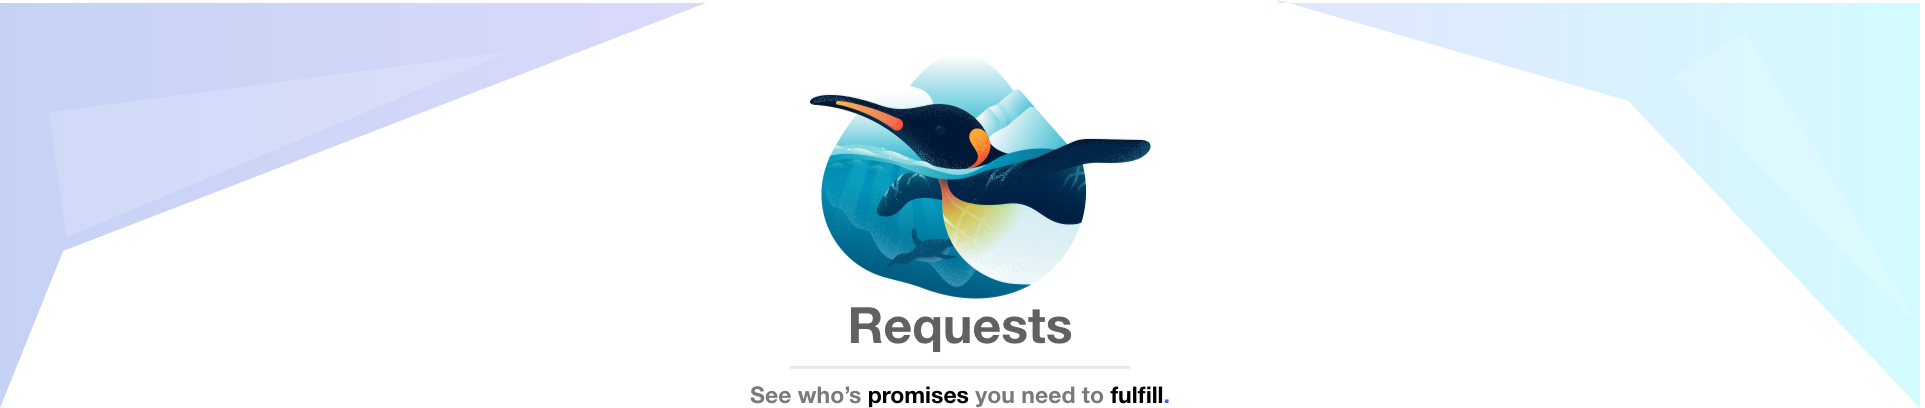
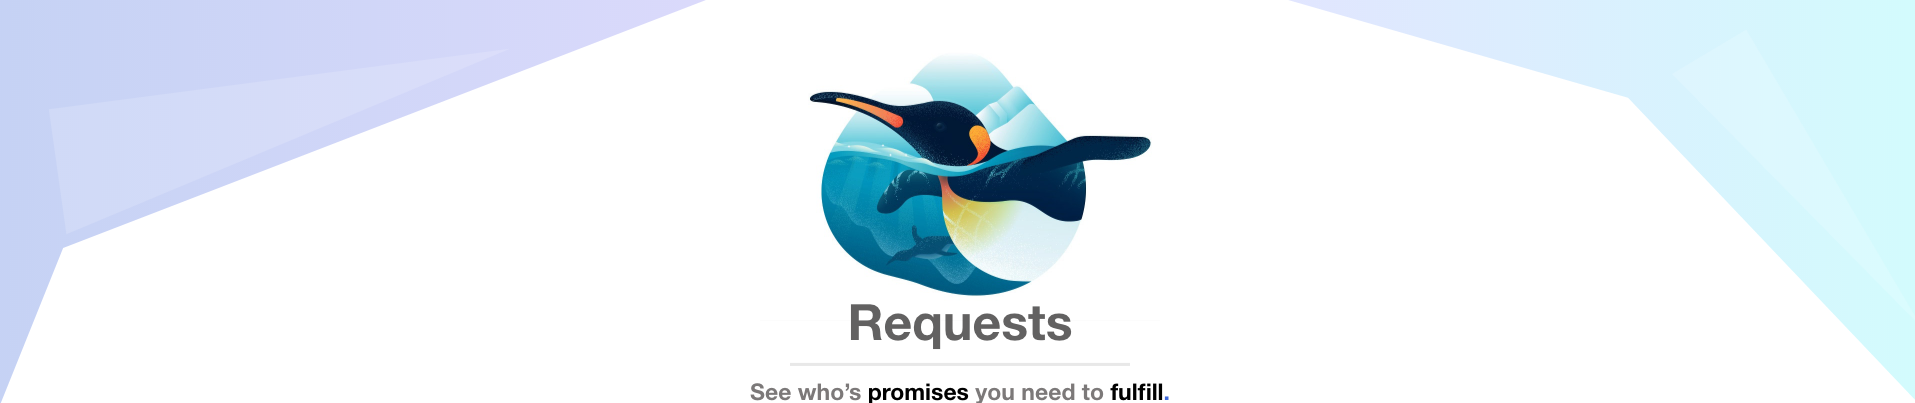
requests stuff

diff --git a/client/src/components/styles/Requests.css b/client/src/components/styles/Requests.css
@@ -2,11 +2,19 @@
     display: flex;
     justify-content: center;
     align-items: center;
+    flex-wrap: wrap;
+    width: 90%;
+}
+
+.medallionPageWrapper {
+    display: flex;
+    flex-direction: column;
+    align-items: center;
 }
 
 .banner {
     width: 100%;
-    margin-top: 4rem;
+    margin-top: 0rem;
 }
 
 .banner img {
@@ -14,9 +22,47 @@
 }
 
 .medallion {
+    position: relative;
     margin: 3rem;
-    box-shadow: 0 1rem 1rem rgba(0, 0, 0, .15);
     border-radius: 1rem;
+    background-color: transparent;
+    perspective: 1000px;
+    width: 40%;
+    height: 22rem;
+}
+
+.medallion_inner {
+    position: relative;
+    border-radius: 1rem;
+    box-shadow: 0 1rem 1rem rgba(0, 0, 0, .15);
+    width: 100%;
+    height: 100%;
+    text-align: center;
+    transition: transform 0.8s;
+    transform-style: preserve-3d;
+}
+
+.medallion:hover .medallion_inner {
+    transform: rotateY(180deg);
+}
+
+.front,
+.back {
+    position: absolute;
+    width: 100%;
+    height: 100%;
+    -webkit-backface-visibility: hidden;
+    backface-visibility: hidden;
+}
+
+.front {
+    background-color: white;
+}
+
+.back {
+    background-color: white;
+    color: white;
+    transform: rotateY(180deg);
 }
 
 .flexWrapper {
@@ -41,8 +87,10 @@
     width: 15rem;
     height: 15rem;
     text-align: center;
-    position: relative;
-    margin: 0rem 2rem;
+    /* position: relative;
+    margin: 0rem 2rem; */
+    background-image: url("pfp_1.png");
+    background-size: cover;
 }
 
 .medallion__name {
@@ -51,4 +99,43 @@
     width: 15rem;
     top: 15rem;
     left: 0rem;
+}
+
+.medallionContent {
+    font-size: 1.75rem;
+    text-align: center;
+}
+
+.pendingError {
+    margin-top: 5rem;
+    font-size: 4rem;
+    box-shadow: 0 1rem 1rem rgba(0, 0, 0, .1);
+    border-radius: 15px;
+    padding: 1rem;
+    color: gray;
+    width: 45rem;
+    text-align: center;
+}
+
+.complete {
+    font-size: 2.5rem;
+    position: absolute;
+    top: 50%;
+    left: 50%;
+    transform: translate(-50%, -50%);
+    background-color: green;
+    border: none;
+    box-shadow: 0 .5rem .5rem rgba(0, 0, 0, .1);
+    padding: 1rem;
+    border-radius: 1.5rem;
+}
+
+.complete:hover {
+    box-shadow: 0 .5rem .5rem rgba(0, 0, 0, .2);
+    transform: translate(-50%, -51%);
+}
+
+.complete:active {
+    box-shadow: 0 .25rem .25rem rgba(0, 0, 0, .05);
+    transform: translate(-50%, -49%);
 }

diff --git a/routes/medallion.js b/routes/medallion.js
@@ -104,11 +104,11 @@ router.get('/requests', async(req, res, next) => {
             const medallions = await Promise.all(user.pendingMedallions.map(async(medallion_id) => {
                 const medal = await Medallion.findById(medallion_id)
                 console.log(medal);
-                return {...medal, "name": user.name };
+                return medal;
             }))
             res.json(medallions);
         } catch (err) {
-            console.error(err.message);
+            console.error(err);
             res.status(500).send("Server Error");
         }
     })
@@ -122,7 +122,7 @@ router.get('/pending', async(req, res, next) => {
             const medallions = await Promise.all(user.sentPendingMedallions.map(async(medallion_id) => {
                 const medal = await Medallion.findById(medallion_id)
                 console.log(medal);
-                return {...medal, "name": user.name };
+                return medal;
             }))
             res.json(medallions);
         } catch (err) {
@@ -160,7 +160,7 @@ router.get('/completed', async(req, res, next) => {
             const medallions = await Promise.all(user.completedMedallions.map(async(medallion_id) => {
                 const medal = await Medallion.findById(medallion_id)
                 console.log(medal);
-                return {...medal, "name": user.name };
+                return medal;
             }))
             res.json(medallions);
         } catch (err) {
@@ -178,7 +178,7 @@ router.get('/sent', async(req, res, next) => {
             const medallions = await Promise.all(user.sentMedallions.map(async(medallion_id) => {
                 const medal = await Medallion.findById(medallion_id)
                 console.log(medal);
-                return {...medal, "name": user.name };
+                return medal;
             }))
             console.log(medallions)
             res.json(medallions);
@@ -197,7 +197,7 @@ router.get('/sent/completed', async(req, res, next) => {
         const medallions = await Promise.all(user.completedSentMedallions.map(async(medallion_id) => {
             const medal = await Medallion.findById(medallion_id)
             console.log(medal);
-            return {...medal, "name": user.name };
+            return medal;
         }))
         res.json(medallions);
     } catch (err) {

diff --git a/client/src/components/AcceptRequests.jsx b/client/src/components/AcceptRequests.jsx
@@ -3,11 +3,11 @@ import PropTypes from "prop-types";
 import "./styles/Requests.css";
 import axios from "axios";
 
-const Requests = (props) => {
+const AcceptRequests = (props) => {
   useEffect(() => {
     async function wrapperFunc() {
       console.log("GETTING MEDALLIONS");
-      const res = await axios.get("/api/medallion");
+      const res = await axios.get("/api/medallion/requests");
       console.log(res.data);
       setReqArr(res.data);
     }
@@ -15,9 +15,18 @@ const Requests = (props) => {
   }, []);
   const [reqArr, setReqArr] = React.useState([]);
 
-  async function completeMedallion(e) {
-    axios.put(`/api/medallion/complete/${e.target.name}`)
-  }
+  // function initializeArray(data){
+  //     let tempArr = [];
+  //     for(let i = 0; i < data.length; i++){
+  //         tempArr.push(new req(data[i].img, data[i].name,data[i].date, img));
+  //     }
+  //     setReqArr(function(prev){
+  //         return [tempArr];
+  //     });
+  // }
+  // useEffect(() =>{
+  //     axios.get('/getdata').then();
+  // })
   return (
     <div className="medallionPageWrapper">
       <div className="banner">
@@ -53,7 +62,7 @@ const Requests = (props) => {
                     <h1>{e.medal}</h1>
                   </div>
                   <div className="back">
-                    <button className="complete" onClick = {e => completeMedallion(e)} name={e._id}>Complete</button>
+                    <button className="complete">Complete</button>
                   </div>
                 </div>
               </div>
@@ -78,5 +87,5 @@ function req(image, name, date, medal) {
   this.medal = medal;
 }
 
-Requests.propTypes = {};
-export default Requests;
+AcceptRequests.propTypes = {};
+export default AcceptRequests;

diff --git a/client/src/components/navbar/Navbar.jsx b/client/src/components/navbar/Navbar.jsx
@@ -20,13 +20,16 @@ const Navbar = props => {
         <div className="navWrapper">
             <img class="logo" src="../../images/logo.png" alt="logo" /> 
             <nav>
-                <ul class="nav_links">
-                    <li><a href="#">Requests</a></li>
-                    <li><a href="#">Users</a></li>
-                    <li><a href="#">Friends</a></li>
-                    <li><a href="#">Login</a></li>
-                    <li><a href="#">Sign up</a></li>
-                </ul>
+                {user ? <ul class="nav_links">
+                    <li><Link to="/requests">Medallions</Link></li>
+                    <li><Link to="/">Make Promises</Link></li>
+                    <li><Link to="/request_accept">Accept Promises</Link></li>
+                    <li><Link to="/friends">Friends</Link></li>
+                </ul> : <ul class="nav_links">
+                    <li><Link to="/">Home</Link></li>
+                    <li><Link to="/login">Login</Link></li>
+                    <li><Link to="/register">Sign up</Link></li>
+                </ul>}
             </nav>
             <img class="navBanner" src="../../../images/banner-item.png"alt="banner" />
         </div>

diff --git a/client/src/components/styles/Home.css b/client/src/components/styles/Home.css
@@ -1,27 +1,37 @@
-.home-div{
-    color:white;
+.home-div {
+    color: white;
     flex-direction: column;
     display: flex;
     justify-content: center;
     align-items: center;
-    align-content: center;
-    margin-top: 200px;
 }
 
-.wave{
+.wave {
     position: absolute;
-    top: 150px;
-    left:-140px;
+    top: 10rem;
+    left: -140px;
 }
 
-body{
+body {
     background-color: white;
-    color:black;
+    color: black;
 }
 
-.deer{
+.deer {
     position: absolute;
-    left: 30%;
-    top: 30%;
+    left: 55%;
+    top: 60%;
+    transform: translate(-50%, -50%);
+    z-index: -1;
 }
 
+.homeHeading {
+    color: transparent;
+    font-size: 7rem;
+    font-weight: 700;
+    height: 15rem;
+    text-align: center;
+    margin-top: 5rem;
+    background: linear-gradient(to right, rgb(66, 66, 255), rgb(151, 106, 255));
+    -webkit-background-clip: text;
+}

diff --git a/client/src/App.js b/client/src/App.js
@@ -9,6 +9,7 @@ import Dashboard from './components/Dashboard';
 import Requests from './components/Requests.jsx';
 import SendReq from './components/Sendreq.jsx';
 import Friends from "./components/Friends.jsx";
+import AcceptRequests from './components/AcceptRequests.jsx';
 
 
 function App() {
@@ -22,6 +23,7 @@ function App() {
           <Route exact path='/register' component={Register} />
           <Route exact path='/dashboard' component={Dashboard} />
           <Route exact path='/requests' component={Requests} />
+          <Route exact path = "/request_accept" component={AcceptRequests} />
           <Route exact path='/sendreq' component={SendReq} />
           <Route exact path = "/friends" component={Friends} />
         </Switch>

diff --git a/client/src/components/styles/Friends.css b/client/src/components/styles/Friends.css
@@ -5,7 +5,6 @@ button:focus {
 .friendsPageWrapper {
     display: flex;
     flex-direction: column;
-    margin-top: 6rem;
 }
 
 .addFriendButton {
@@ -92,6 +91,7 @@ button:focus {
 
 .friendsWrapper {
     display: flex;
+    flex-wrap: wrap;
     justify-content: center;
     align-items: center;
     padding: 1rem;
@@ -102,6 +102,7 @@ button:focus {
 
 .friendRequestsWrapper {
     display: flex;
+    flex-wrap: wrap;
     align-items: center;
     justify-content: center;
     flex-direction: column;

diff --git a/client/src/components/navbar/styles/Navbar.css b/client/src/components/navbar/styles/Navbar.css
@@ -1,10 +1,11 @@
 @import url('https://fonts.googleapis.com/css2?family=Roboto:wght@100;300;400;500;700;900&display=swap');
-* {
+
+/* * {
     box-sizing: border-box;
     margin: 0;
     padding: 0;
     background-color: #fafafa;
-}
+} */
 
 li,
 a {
@@ -22,6 +23,8 @@ a {
     align-items: center;
     box-shadow: 0 0.15rem 0.15rem rgba(0, 0, 0, .1);
     padding: 0px 1%;
+    position: relative;
+    z-index: 1000;
 }
 
 .logo {

diff --git a/client/src/components/Home.jsx b/client/src/components/Home.jsx
@@ -6,7 +6,7 @@ const Home = props => {
     return (
         <div className="home-page">
             <div className="home-div">
-                <h1>Welcome to Pledge Pals!</h1>
+                <h1 className="homeHeading">Pledge Pals</h1>
                 <img src="../images/waveback.png" className="wave" alt="asdf"/>
                 <img src="../images/promisedeer.png" className="deer" alt="asdf"/>
             </div>
